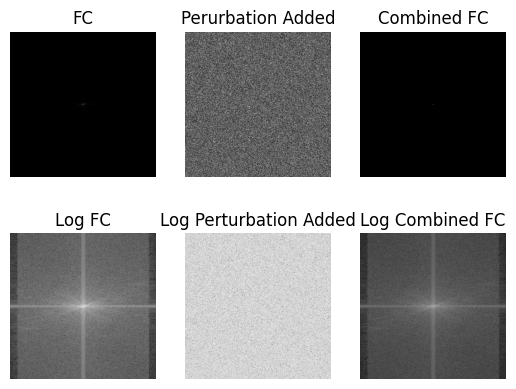
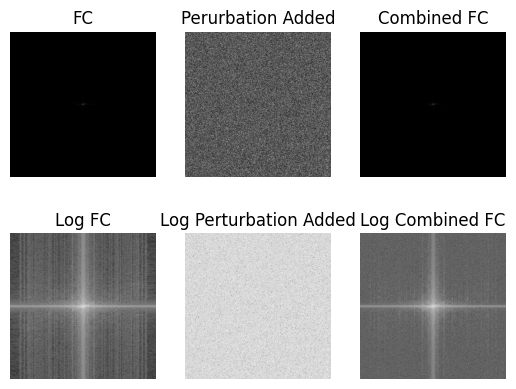
Working FC method?

Changed region(s): [[0.6822, 0.5861, 0.9922, 0.9871], [0.3411, 0.0925, 0.6512, 0.4627], [0.186, 0.8021, 0.2171, 0.8329]]

diff --git a/fourierTest.py b/fourierTest.py
@@ -24,14 +24,15 @@ inp[3][3] -= 1
 
 
 tst_org, tst_inp = rd.get_validation_data(num_from=20, num_img=1, acc=4, full=True) 
-mu = np.mean(tst_org, axis=(-1, -2), keepdims=True)
-mean = mu[0][0][0]
-std = np.std(tst_org, axis=(-1, -2), keepdims=True)
+mean = 0
+std = 1/320
+
+size = 320
+tst_org = sf.crop(tst_org, (size, size))
+tst_inp = sf.crop(tst_inp, (size, size))
 
 # Add noise to FC to see how it reacts
 coeff_inp = sf.fft2c(tst_inp)
-first_img = sf.sos(sf.crop(sf.ifft2c(coeff_inp), (320, 320)))
-first_img = first_img[np.newaxis, ...]
 
 shp = list(coeff_inp.shape)
 
@@ -44,24 +45,53 @@ gauss_noise_fc_real = np.abs(np.random.normal(mean, std, size=shp))
 gauss_noise_fc_imag = np.abs(np.random.normal(mean, std, size=shp) * 1j)
 gauss_noise_fc = gauss_noise_fc_real[...] + gauss_noise_fc_imag[...]
 
-fc_scaling = np.sum(np.abs(coeff_inp)) / fraction
-gauss_noise_fc *= fc_scaling
+#fc_scaling = np.sum(np.abs(coeff_inp)) / fraction
+#gauss_noise_fc *= fc_
 #print(fraction, scale, np.sum(np.abs(gauss_noise_fc)), np.sum(np.abs(coeff_inp)))
 
-# Add perturbations to the FC via the Gaussian method
-coeff_final = np.copy(coeff_inp) + np.copy(gauss_noise_fc)
-tst_fc = sf.sos(sf.crop(sf.ifft2c(coeff_final), (320, 320)))
-tst_fc = tst_fc[np.newaxis, ...]
-fc_error = np.sqrt(np.sum((np.copy(tst_fc)[:, :, :] - np.copy(tst_org)[:, :, :]) ** 2))
-print('Gaussian SSE', fc_error)
-print('Sum Gaussian', np.sum(np.abs(tst_fc)))
+coeff_final = gauss_noise_fc
+tst_fc = sf.ifft2c(coeff_final)
+print('Coeff Norm', np.linalg.norm(coeff_final))
+print('Gauss Norm', np.linalg.norm(tst_fc))
+
 
 # Add perturbations to max value of FC (which is the DC component)
+#coeff_final = np.copy(coeff_inp) + np.copy(gauss_noise_fc)
+coeff_final = np.copy(coeff_inp) - np.copy(coeff_inp)
+coeff_final[0][20][220] += gauss_noise_fc[0][17][228]
+coeff_final[0][20][221] += gauss_noise_fc[0][49][228]
+coeff_final[0][20][222] += gauss_noise_fc[0][62][228]
+print('gauss number', gauss_noise_fc[0][17][228])
+
+
+#coeff_final = coeff_final - coeff_final
+
+#coeff_final[0][0][0] = 0.5
+tst_fc = sf.ifft2c(coeff_final)
+print('Coeff Norm', np.linalg.norm(coeff_final))
+print('DC Norm', np.linalg.norm(tst_fc))
+norm1 = np.linalg.norm(tst_fc)**2
+print(np.linalg.norm(tst_fc)**2)
+
+
+
+
+'''
+# Add perturbations to max value of FC (which is the DC component)
 coeff_final = np.copy(coeff_inp)
-idx_max = np.unravel_index(coeff_final.argmax(), coeff_final.shape)
-coeff_final[idx_max[0]][idx_max[1]][idx_max[2]] += np.sum(np.abs(gauss_noise_fc))
-tst_fc = sf.sos(sf.crop(sf.ifft2c(coeff_final), (320, 320)))
+coeff_final = coeff_final - coeff_final
+coeff_final[0][0][0] = 0.5
+coeff_final[0][1][0] = 0.5
+tst_fc = sf.ifft2c(coeff_final)
 tst_fc = tst_fc[np.newaxis, ...]
+tst_fc3 = tst_fc
 fc_error = np.sqrt(np.sum((np.copy(tst_fc)[:, :, :] - np.copy(tst_org)[:, :, :]) ** 2))
-print('DC SSE', fc_error)
-print('Sum DC', np.sum(np.abs(tst_fc)))
+print('2nd SSE', fc_error)
+print('Sum 2nd', np.sum(np.abs(tst_fc)))
+norm3 = np.linalg.norm(tst_fc)**2
+print(np.linalg.norm(tst_fc)**2)
+
+res = np.linalg.norm(tst_fc1 + tst_fc2 - tst_fc3)
+print(res)
+'''
+

diff --git a/corruptFourier.py b/corruptFourier.py
@@ -42,11 +42,10 @@ def main(argv):
     model_dir = cwd + '/' + directory
     load_chk_pt = tf.train.latest_checkpoint(model_dir)
 
-    #epsilons = np.asarray([0, 2.5, 5, 7.5, 10, 12.5, 15, 17.5, 20])
-    epsilons = np.asarray([0, 2.5, 5])
+    epsilons = np.asarray([0, 2.5, 5, 7.5, 10, 12.5, 15, 17.5, 20])
+    #epsilons = np.asarray([0, 2.5])
     perturb_sizes = list(np.linspace(0, 30000, num=9))
     epsilons_perturb = zip(epsilons, perturb_sizes)
-    print(perturb_sizes)
 
     for epsilon, perturb in epsilons_perturb:
         tst_org, tst_inp = rd.get_validation_data(num_from=20, num_img=1, acc=4, full=full) 
@@ -135,6 +134,7 @@ def main(argv):
         gauss_noise_fc_real = np.random.normal(mean, std, size=shp)
         gauss_noise_fc_imag = np.random.normal(mean, std, size=shp) * 1j
         gauss_noise_fc = gauss_noise_fc_real[...] + gauss_noise_fc_imag[...]
+        gauss_noise_fc *=  1 / np.sum(np.abs(gauss_noise_fc))
         if epsilon != 0:  
             #fc_scaling = (perturb) / (np.sum(np.abs(gauss_noise_fc)) * scale)
             fc_scaling = np.sum(np.abs(coeff_inp)) / fraction
@@ -144,10 +144,10 @@ def main(argv):
         else:
             gauss_noise_fc = np.zeros(shape=gauss_noise_fc.shape, dtype=np.complex64)
 
-        #coeff_final = np.copy(coeff_inp) + np.copy(gauss_noise_fc)
-        coeff_final = np.copy(coeff_inp)
-        idx_max = np.unravel_index(coeff_final.argmax(), coeff_final.shape)
-        coeff_final[idx_max[0]][idx_max[1]][idx_max[2]] += np.sum(np.abs(gauss_noise_fc))
+        coeff_final = np.copy(coeff_inp) + np.copy(gauss_noise_fc)
+        #coeff_final = np.copy(coeff_inp)
+        #idx_max = np.unravel_index(coeff_final.argmax(), coeff_final.shape)
+        #coeff_final[idx_max[0]][idx_max[1]][idx_max[2]] += np.sum(np.abs(gauss_noise_fc))
 
         print('Amax', np.amax(coeff_final))
         tst_fc = sf.sos(sf.crop(sf.ifft2c(coeff_final), (320, 320)))

diff --git a/plotResults.py b/plotResults.py
@@ -3,8 +3,8 @@ import numpy as np
 
 plt.style.use('seaborn')
 
-all_data_partial = np.load('May27_partial.npy')
-all_data_full = np.load('May27_full.npy')
+all_data_partial = np.load('Jun2_partial.npy')
+all_data_full = np.load('Jun2_full.npy')
 
 n = 4
 data_partial = [all_data_partial[k:k+n] for k in range(0, len(all_data_partial), n)]
